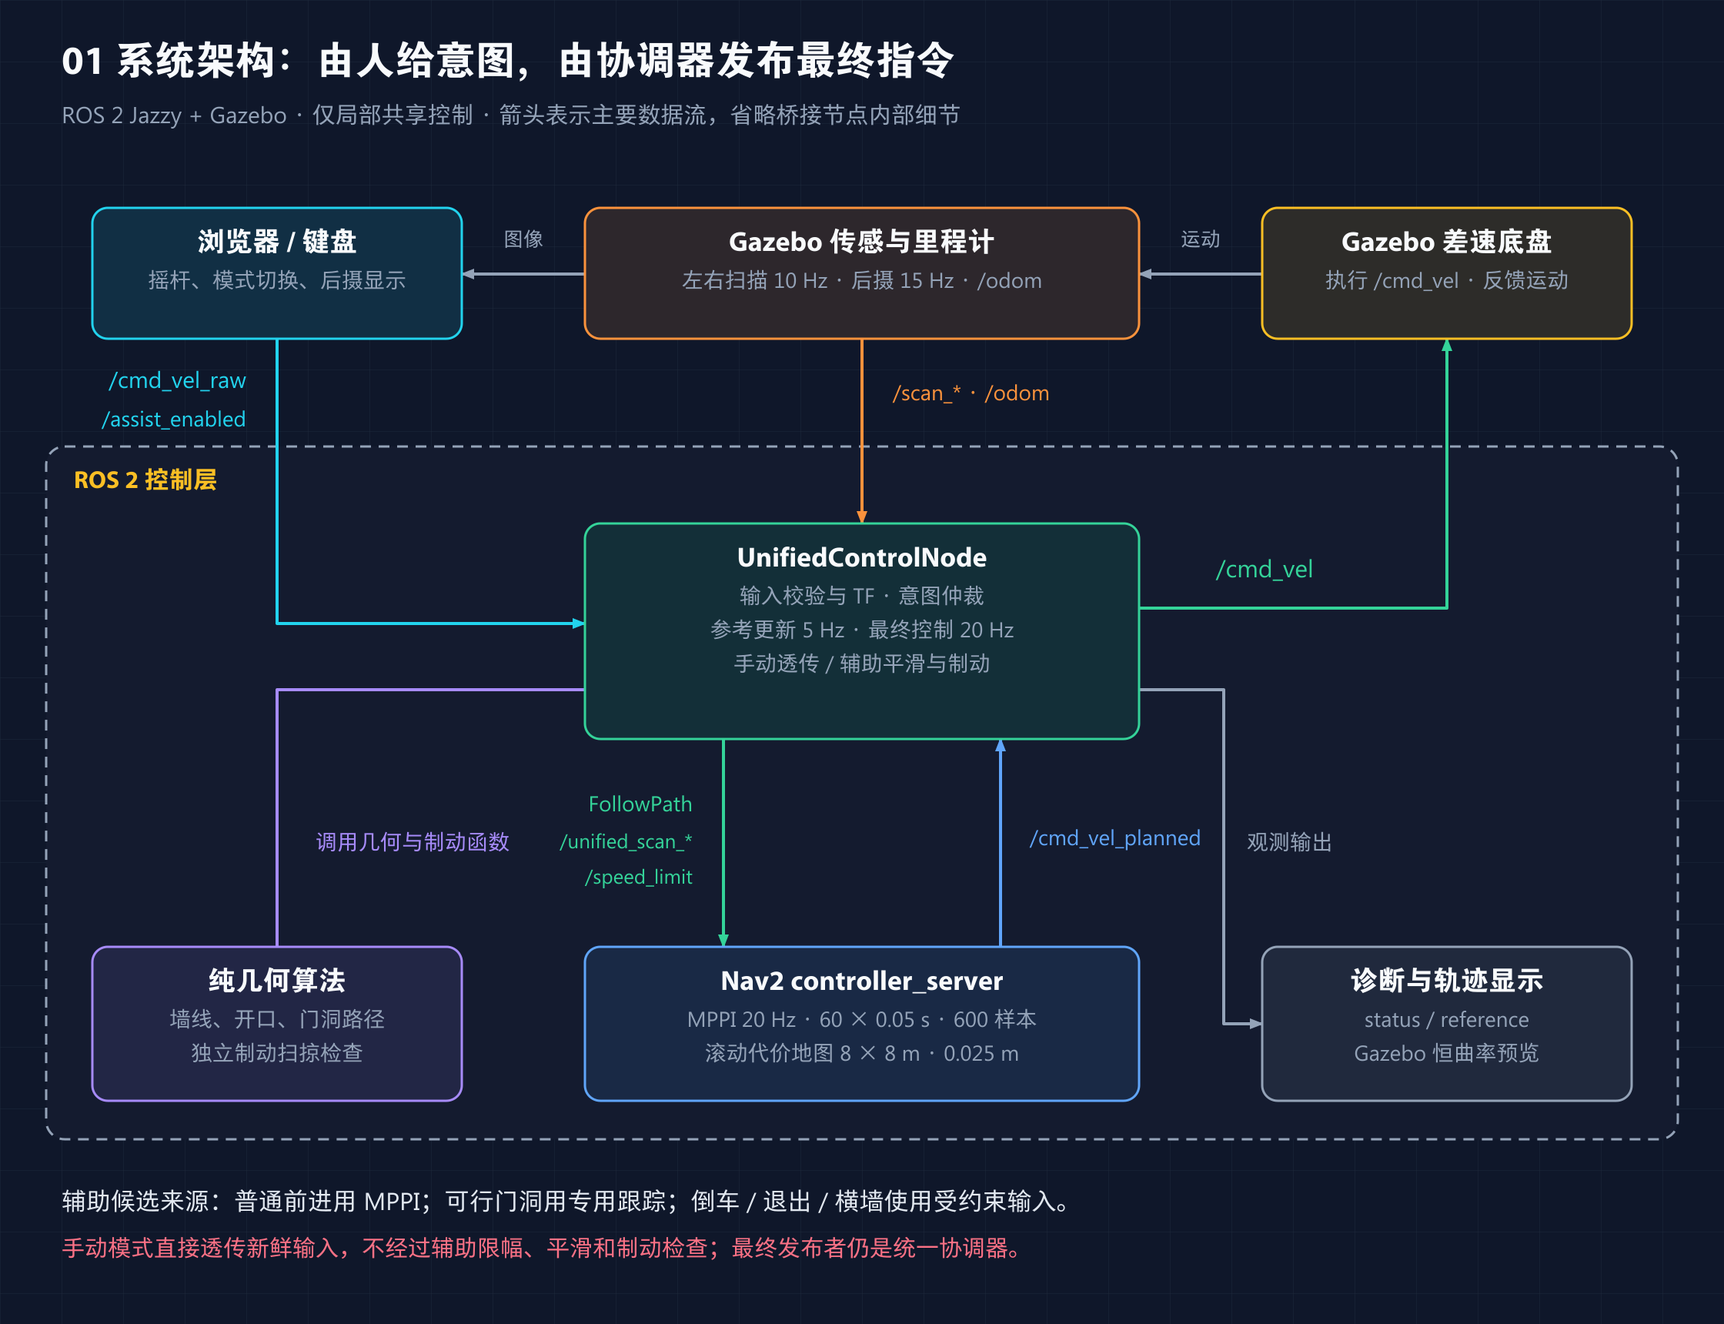
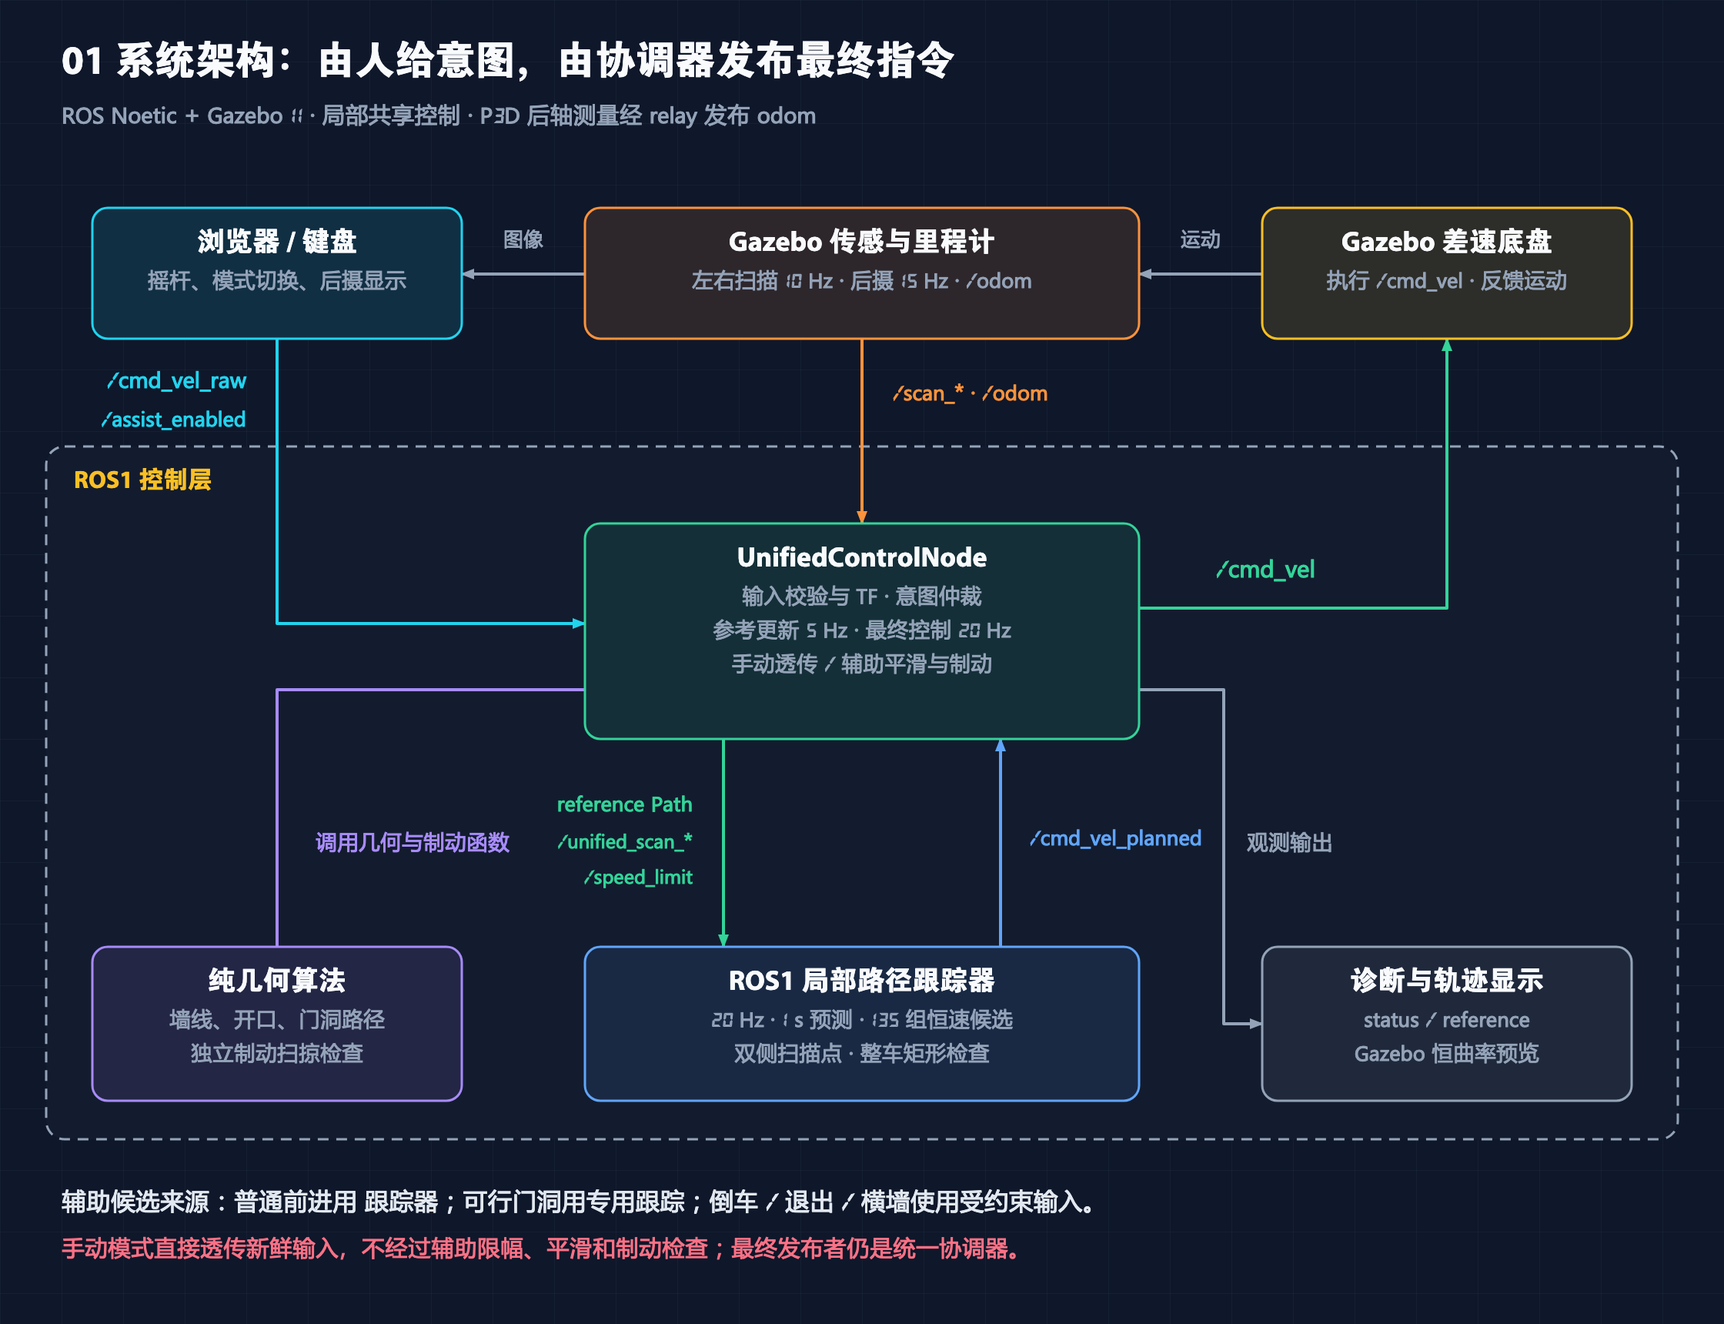
docs: document ROS1 simulation workflow

diff --git a/scripts/probe_unified_control.py b/scripts/probe_unified_control.py
@@ -70,7 +70,8 @@ def main():
     rospy.Subscriber('shared_control/status', String, on_status, queue_size=10)
     rospy.Subscriber('odom', Odometry, lambda m: data.update(odom=[
         m.pose.pose.position.x, m.pose.pose.position.y,
-        2*math.atan2(m.pose.pose.orientation.z, m.pose.pose.orientation.w)]), queue_size=10)
+        2*math.atan2(m.pose.pose.orientation.z, m.pose.pose.orientation.w)],
+        odom_velocity=[m.twist.twist.linear.x, m.twist.twist.angular.z]), queue_size=10)
     for side in ['left', 'right']:
         rospy.Subscriber('scan_'+side, LaserScan, lambda m, s=side: scans.update({s: m}), queue_size=5)
 
@@ -174,12 +175,26 @@ def main():
                 row['world_yaw'] = data['odom'][2]-initial_odom[2]+yaw
             records.append(row)
         command()
+        # Observe physical settling after release, not just the sent zero request.
+        time.sleep(.2)
+        stop_deadline = time.monotonic() + 3.
+        while time.monotonic() < stop_deadline:
+            if all(abs(value) < .02 for key in ('cmd_vel', 'odom_velocity')
+                   for value in data.get(key, [99.])):
+                break
+            time.sleep(.05)
         moving = moving_records(records)
+        sequence = []
+        for entry in mode_history:
+            if not sequence or sequence[-1] != entry['mode']:
+                sequence.append(entry['mode'])
         result = {'case': args.case, 'samples': len(moving),
                   'min_sampled_clearance': min((r['clearance'] for r in moving), default=0.),
                   'max_speed': max((r.get('cmd_vel', [0])[0] for r in moving), default=0.),
                   'modes': sorted({r['mode'] for r in mode_history}
                                   | {r.get('status', {}).get('mode', 'missing') for r in moving}),
+                  'mode_sequence': sequence,
+                  'final_stop': {key: data.get(key) for key in ('cmd_vel', 'odom_velocity')},
                   'last': records[-1] if records else None}
         if args.case == 'wall_gap':
             gaps = [r['wall_clearance'] for r in moving if r['wall_clearance'] is not None
@@ -193,11 +208,20 @@ def main():
                                                'mode_history': mode_history}, indent=2)+'\n')
         print(json.dumps(result, indent=2))
         assert moving and result['min_sampled_clearance'] > .02, 'missing data or insufficient sampled clearance'
+        assert all(abs(value) < .02 for key in ('cmd_vel', 'odom_velocity')
+                   for value in data.get(key, [99.])), 'release did not stop command and physical motion'
+        assert result['max_speed'] <= .800001, 'assisted speed limit exceeded'
         if args.case == 'door':
             check_door_modes(result['modes'])
+            assert 'door_clear' in sequence, 'door tail-clear phase was not observed'
+            assert sequence.index('door_align') < sequence.index('door_pass') < sequence.index('door_clear'), \
+                'door phases were observed out of order'
             assert any(r['world_axle'][0] > .6 for r in moving), 'rear axle did not clear doorway'
         elif args.case == 'front':
+            assert 'front_stop' in result['modes'], 'front obstacle stop mode was not observed'
             assert abs(moving[-1].get('cmd_vel', [99])[0]) < .02, 'did not stop at front wall'
+        elif args.case == 'wall':
+            assert 'wall' in result['modes'], 'wall following was not observed'
         elif args.case == 'override':
             assert any(r['t'] > 13 and r.get('cmd_vel', [0, 0])[1] < -.3
                        and r.get('status', {}).get('mode') == 'override' for r in moving), 'override not observed'

diff --git a/catkin_ws/src/smart_wheelchair_gazebo/test/test_ros1_layout.py b/catkin_ws/src/smart_wheelchair_gazebo/test/test_ros1_layout.py
@@ -5,6 +5,15 @@ ROOT = pathlib.Path(__file__).parents[4]
 
 
 class Ros1LayoutTest(unittest.TestCase):
+    def test_operational_docs_have_no_ros2_instructions(self):
+        docs = (ROOT / "README.md").read_text() + (
+            ROOT / "docs/architecture-and-algorithms.md").read_text()
+        for forbidden in ("ros2 ", "ROS 2", "Jazzy", "Nav2", "colcon",
+                          "ros_gz", "ros2_ws"):
+            self.assertNotIn(forbidden, docs)
+        for required in ("ROS Noetic", "Gazebo 11", "catkin_make"):
+            self.assertIn(required, docs)
+
     def test_workspace_and_packages_use_catkin_only(self):
         self.assertTrue((ROOT / "catkin_ws/src").is_dir())
         self.assertFalse((ROOT / "ros2_ws").exists())
@@ -15,3 +24,7 @@ class Ros1LayoutTest(unittest.TestCase):
             self.assertIn("catkin_package(", (directory / "CMakeLists.txt").read_text())
             self.assertIn("<buildtool_depend>catkin</buildtool_depend>",
                           (directory / "package.xml").read_text())
+
+
+if __name__ == "__main__":
+    unittest.main()

diff --git a/catkin_ws/src/smart_wheelchair_safety/smart_wheelchair_safety/unified_geometry.py b/catkin_ws/src/smart_wheelchair_safety/smart_wheelchair_safety/unified_geometry.py
@@ -304,7 +304,7 @@ def intended_side_opening(openings, wall_side, v, w):
 
 
 def approach_path(target, heading, length=3., steps=41):
-    """A tangent-continuous reference; MPPI and the guard check feasibility."""
+    """A tangent-continuous reference; the local follower and the guard check feasibility."""
     end = np.asarray(target, dtype=float)
     t = np.linspace(0., 1., steps)[:, None]
     scale = min(length, float(np.linalg.norm(end)))
@@ -344,7 +344,7 @@ def door_alignment_reference(door, phase):
 def collision_aware_door_reference(door, obstacles, margin=.045):
     """Find a forward-only reference to the door centerline.
 
-    This deterministic lattice only supplies MPPI with a collision-free
+    This deterministic lattice only supplies the local follower with a collision-free
     geometric reference. The controller and braking guard remain responsible
     for dynamics and final command safety.
     """

diff --git a/README.md b/README.md
@@ -1,12 +1,12 @@
 # SmartWheelChair ROS 仿真
 
-这是一个基于 Docker 的 ROS 2 Jazzy + Gazebo 智能轮椅仿真环境，模型参考 M6 类智能轮椅结构。
+这是一个基于 Docker 的 ROS Noetic + Gazebo 11（Classic）智能轮椅仿真环境，模型参考 M6 类智能轮椅结构。
 
 ## 仿真内容
 
 - 后轮差速驱动，两侧后轮独立动力输出。
 - 两个被动前万向轮。
-- 左右两颗 360 度旋转单线激光雷达，在仿真中发布经过车身过滤后的侧边/侧前 2D 扫描。
+- 左右两颗 360 度旋转单线激光雷达，仿真输出有效侧边/侧前 2D 扫描，控制器再剔除车身回波。
 - 后方中部 120 度广角摄像头。
 - 统一共享控制器，根据激光数据进行延墙、窄门辅助、舒适限速和独立制动检查。
 - 浏览器虚拟摇杆和后摄画面，倒车时叠加 2 米左右轮预测轨迹。
@@ -19,7 +19,7 @@
 
 ## 构建 Docker 镜像
 
-Dockerfile 默认使用 DaoCloud 的 Docker Hub 公共镜像作为 ARM64 ROS 基础镜像源，并使用清华源安装 Ubuntu/ROS apt 软件包。`docker-compose.yml` 针对 Apple Silicon Mac 固定为 `linux/arm64`；如果在模拟环境中跑 amd64 ROS desktop 镜像，Gazebo GUI 可能无法正确映射窗口，导致 VNC 桌面黑屏。
+Dockerfile 默认使用 DaoCloud 的 ARM64 `noetic-ros-base-focal` 镜像，Ubuntu Focal 软件包使用清华源，ROS 使用基础镜像自带的软件源。`docker-compose.yml` 针对 Apple Silicon Mac 固定为 `linux/arm64`；GUI 使用 Xvfb 与软件 OpenGL。
 
 如果使用 macOS Docker Desktop，可以在 `Settings -> Docker Engine` 中加入下面配置，然后重启 Docker：
 
@@ -40,7 +40,7 @@ docker compose build
 如果想绕过镜像源：
 
 ```bash
-docker compose build --build-arg BASE_IMAGE=ros:jazzy-ros-base
+docker compose build --build-arg BASE_IMAGE=ros:noetic-ros-base-focal
 ```
 
 ## 打开 ROS Shell
@@ -52,9 +52,9 @@ docker compose run --rm sim
 进入容器后执行：
 
 ```bash
-cd /workspaces/SmartWheelChair/ros2_ws
-colcon build --symlink-install
-source install/setup.bash
+cd /workspaces/SmartWheelChair/catkin_ws
+catkin_make
+source devel/setup.bash
 ```
 
 ## 启动仿真
@@ -62,15 +62,15 @@ source install/setup.bash
 在 Docker shell 内启动无界面 Gazebo：
 
 ```bash
-ros2 launch smart_wheelchair_gazebo sim.launch.py
+LIBGL_ALWAYS_SOFTWARE=1 xvfb-run -a roslaunch smart_wheelchair_gazebo sim.launch
 ```
 
-launch 文件默认以 headless server 模式启动 Gazebo，这种方式在 Docker 内不需要显示转发。
+launch 默认只启动 Gazebo server；Xvfb 为相机提供虚拟显示器，不需要转发主机显示。
 
 在 macOS 上显示 Gazebo 窗口，推荐使用浏览器 VNC 方案：
 
 ```bash
-cd /Users/guotao/Work/code/SmartWheelChair
+# 在仓库根目录运行
 docker compose up -d gui
 ```
 
@@ -85,7 +85,7 @@ http://localhost:6080/vnc.html
 `docker compose up gui` 会通过 `docker/gazebo-gui-vnc.sh` 启动：
 
 ```bash
-ros2 launch smart_wheelchair_gazebo sim.launch.py gui:=true
+roslaunch smart_wheelchair_gazebo sim.launch gui:=true
 ```
 
 `docker compose run --rm sim` 只会打开 ROS shell，不会自动启动 Gazebo。
@@ -125,7 +125,7 @@ http://localhost:8090
 - 后退最大速度：`3 kph`，即 `0.8333333 m/s`
 - 最大角速度：`1.4 rad/s`
 
-新的统一控制版本默认前进上限为 `0.8 m/s`、倒车上限为 `0.4 m/s`、角速度上限为 `0.65 rad/s`；门洞辅助规划限速为 `0.45 m/s`。正常加减速进行平滑处理，松杆、数据失效和紧急制动优先于舒适性限制。
+辅助模式默认前进上限为 `0.8 m/s`、倒车上限为 `0.4 m/s`、角速度上限为 `0.65 rad/s`；门洞对正限速 `0.35 m/s`，通过及车尾清空限速 `0.55 m/s`。正常加减速进行平滑处理，松杆、数据失效和紧急制动优先于舒适性限制。页面切换到手动模式后，新鲜输入直接透传，绕过辅助限速与制动检查；切换模式需要先回中。
 
 后方 120 度广角摄像头画面显示在同一个浏览器控制页中。倒车时，画面会根据差速轮运动学叠加 2 米范围内的左右轮预测轨迹。
 
@@ -159,7 +159,7 @@ omega_l = v_l / r
 omega_r = v_r / r
 ```
 
-在平面位姿 `(x, y, theta)` 下，车体中心的运动方程为：
+在平面位姿 `(x, y, theta)` 下，后轴中心的运动方程为：
 
 ```text
 dx/dt     = v * cos(theta)
@@ -175,7 +175,7 @@ x_s     = sin(theta_s) / k
 y_s     = (1 - cos(theta_s)) / k
 ```
 
-其中 `s` 是沿车体前后方向的预测距离，倒车时 `s < 0`。左右轮轨迹是在车体中心轨迹基础上叠加横向偏移 `+/- L/2`。
+其中 `s` 是沿车体前后方向的预测距离，倒车时 `s < 0`。左右轮轨迹是在后轴中心轨迹基础上叠加横向偏移 `+/- L/2`。`/odom` 来自 Gazebo P3D 对后轴 link 的测量，经 relay 将与 `world` 重合的父坐标系标记为 `odom`；差速插件发布的模型原点 `/diff_drive/odom` 仅供诊断。
 
 ## 激光雷达和安全过滤
 
@@ -184,15 +184,15 @@ y_s     = (1 - cos(theta_s)) / k
 两颗激光雷达在物理结构上按 360 度旋转单线雷达建模，但仿真发布的是轮椅实际使用的有效视场：每侧约 200 度，角分辨率 0.5 度，覆盖侧边和侧前区域。Gazebo 中能看到绿色扫描射线；ROS 输出是 `LaserScan` 话题，不是 3D 点云：
 
 ```bash
-ros2 topic echo /scan_left
-ros2 topic echo /scan_right
+rostopic echo /scan_left
+rostopic echo /scan_right
 ```
 
 统一控制器把雷达测距转换为车身坐标系障碍点，并以整车矩形轮廓、制动距离和额外安全裕量进行碰撞检查。距离小于车身过滤边界的自身回波会在进入控制逻辑前剔除。
 
 ## 统一共享控制 V1
 
-控制链路为：摇杆意图 → 墙线/门洞参考路径 → Nav2 MPPI → 速度平滑 → 独立制动检查 → `/cmd_vel`。MPPI 联合选择线速度和角速度，预测时域为 3 秒；碰撞检查使用整车矩形轮廓，不只检查三条轮迹线。
+控制链路为：摇杆意图 → 墙线/门洞参考路径 → ROS1 局部路径跟踪器 → 速度平滑 → 独立制动检查 → `/cmd_vel`。跟踪器每周期枚举 `9 × 15` 组恒定线速度/角速度，预测 `1 s`，步长 `0.1 s`，以整车矩形净空和路径评分选择候选。门洞使用专用路径跟踪与安全速度搜索；最终协调器仍检查实测动量、反应延迟和制动尾段。
 
 - 斜向靠墙与平行沿墙共用切向参考，稳定沿墙的车身边沿目标净距为 `12 cm`（`wall_clearance=0.12`），按 `15 cm` 内进行跟随验证，不是后轴中心到墙的距离。接近墙、门洞和转角阶段允许留出更多安全空间；反向转向输入可以退出沿墙接管。
 - 沿墙遇到宽度不小于 `1.8 m` 的同侧通道时，只有用户持续向开口侧转向才会锁存开口；控制器先保持原航向越过近端墙角，再生成进入通道的切向路径。摇杆保持直行不会被开口吸入。窄于该阈值的开口不走直接转弯逻辑。
@@ -202,54 +202,77 @@ ros2 topic echo /scan_right
 - Gazebo 两颗激光雷达当前量程均为 `5.0 m`；硬件雷达标称最远 `12 m`，待实车标定后再单独调整，不能直接套用仿真参数。
 - 几何统一到后轴中心：车身 `x=[-0.25, 0.97] m`、`y=[-0.40, 0.40] m`。硬检查附加 `4 cm` 裕量与受减速度约束的制动尾段；这不是实车安全保证。
 
-Gazebo C++ 插件用两套三线轨迹分别显示原始摇杆指令和最终 `/cmd_vel` 的恒曲率预测；它们不是 MPPI 的时变规划路径。参考路径与控制状态可查看：
+Gazebo C++ 插件用两套三线轨迹分别显示原始摇杆指令和最终 `/cmd_vel` 的恒曲率预测（`3 s`）；它们不代表已经通过净空验证的路径。参考路径与控制状态可查看：
 
 ```bash
-ros2 topic echo /shared_control/status
-ros2 topic echo /shared_control/reference
-ros2 topic echo /cmd_vel_planned
+rostopic echo /shared_control/status
+rostopic echo /shared_control/reference
+rostopic echo /cmd_vel_planned
 ```
 
 独立一米门洞测试场景（启动位置偏角约 10 度、横向偏置 15 cm）：
 
 ```bash
-WHEELCHAIR_WORLD=/workspaces/SmartWheelChair/ros2_ws/src/smart_wheelchair_gazebo/worlds/unified_door.sdf docker compose up -d gui
+WHEELCHAIR_WORLD=/workspaces/SmartWheelChair/catkin_ws/src/smart_wheelchair_gazebo/worlds/unified_door.world docker compose up -d gui
 ```
 
 恢复原场景：`docker compose up -d gui`。门洞辅助目前仅针对静态、平面、可观测的室内场景，不包含动态行人预测、台阶/悬空检测和自动倒车脱困。实车还需要验证遮挡、打滑、定位误差、执行延迟与真实制动能力。实现说明与复测方法见 [当前方案架构与算法详解](docs/architecture-and-algorithms.md)。
 
 ## 键盘遥控
 
-在另一个 Docker shell 中，可以通过键盘遥控并经过统一控制器：
+GUI 运行时，在主机另一终端进入同一个容器进行键盘遥控，指令经过统一控制器：
 
 ```bash
-cd /workspaces/SmartWheelChair/ros2_ws
-source install/setup.bash
-ros2 run teleop_twist_keyboard teleop_twist_keyboard --ros-args -r cmd_vel:=cmd_vel_raw
+docker compose exec gui bash -lc 'source /opt/ros/noetic/setup.bash && source catkin_ws/devel/setup.bash && rosrun teleop_twist_keyboard teleop_twist_keyboard.py cmd_vel:=cmd_vel_raw'
 ```
 
 常用话题：
 
 ```bash
-ros2 topic list
-ros2 topic echo /scan_left
-ros2 topic echo /scan_right
-ros2 topic echo /odom
+rostopic list
+rostopic echo /scan_left
+rostopic echo /scan_right
+rostopic echo /odom
 ```
 
-## 运行本地单元测试
+## 测试与闭环复测
 
-这些测试覆盖摇杆映射、统一控制几何、控制状态机、轮椅模型和 Gazebo 世界布局。纯 Python 测试不需要 ROS：
+主机需 Python 与 NumPy；无 ROS 时节点测试会跳过，完整测试应在容器执行：
 
 ```bash
-PYTHONPATH=ros2_ws/src/smart_wheelchair_safety python3 -m unittest discover ros2_ws/src/smart_wheelchair_safety/test
+PYTHONPATH=catkin_ws/src/smart_wheelchair_safety python3 -m unittest discover -s catkin_ws/src/smart_wheelchair_safety/test -v
+PYTHONPATH=catkin_ws/src/smart_wheelchair_safety python3 -m unittest discover -s catkin_ws/src/smart_wheelchair_gazebo/test -v
+docker compose stop gui
+docker compose build sim
+docker compose run --rm sim bash -lc 'cd catkin_ws && catkin_make && source devel/setup.bash && catkin_make run_tests && catkin_test_results --verbose'
 ```
 
-也可以只运行不依赖 ROS 的基础测试：
+启动独立无界面运行实例：
 
 ```bash
-PYTHONPATH=ros2_ws/src/smart_wheelchair_safety python3 -m unittest ros2_ws/src/smart_wheelchair_safety/test/test_joystick.py ros2_ws/src/smart_wheelchair_safety/test/test_unified_geometry.py ros2_ws/src/smart_wheelchair_gazebo/test/test_model_visuals.py ros2_ws/src/smart_wheelchair_gazebo/test/test_world_layout.py
+docker compose run -d --name smart-wheelchair-verify sim bash -lc 'source catkin_ws/devel/setup.bash && LIBGL_ALWAYS_SOFTWARE=1 xvfb-run -a roslaunch smart_wheelchair_gazebo sim.launch gui:=false; exit $?'
+docker exec smart-wheelchair-verify bash -lc 'source /opt/ros/noetic/setup.bash; source catkin_ws/devel/setup.bash; rostopic list'
+docker exec smart-wheelchair-verify bash -lc 'source /opt/ros/noetic/setup.bash; source catkin_ws/devel/setup.bash; python3 scripts/probe_unified_control.py front --output /tmp/front.json'
+docker exec smart-wheelchair-verify pkill -INT -x roslaunch
+docker stop --time 60 smart-wheelchair-verify
+docker rm smart-wheelchair-verify
 ```
+
+等到 `/clock`、`/odom`、双侧扫描和 HTTP `8090` 就绪后再执行探针。将 `front` 换为 `wall` 可验证沿墙；每个用例都重新启动实例。门洞用例需在 roslaunch 命令中加 `world:=/workspaces/SmartWheelChair/catkin_ws/src/smart_wheelchair_gazebo/worlds/unified_door.world`，再执行 `probe_unified_control.py door`。每例默认运动 30 秒，结束后验证指令与实测速度都停止；报告含净距、速度和模式顺序。探针会实际移动车辆，仅用于仿真，运行时关闭其他摇杆页面。
+
+原生渲染检查需要独立 ROS master 和 Xvfb，检查固定轨迹槽位、显隐循环、激光稳定性及摄像头帧：
+
+```bash
+docker compose run --rm sim roscore
+```
+
+上面的 shell 保持运行，在另一个终端执行：
+
+```bash
+docker compose run --rm sim bash -lc 'source /usr/share/gazebo/setup.sh && source catkin_ws/devel/setup.bash && LIBGL_ALWAYS_SOFTWARE=1 xvfb-run -a python3 catkin_ws/src/smart_wheelchair_gazebo/test/check_trajectory_preview.py; exit $?'
+```
+
+结束后用 Ctrl-C 停止独立 master，再执行 `docker compose down`。`xvfb-run` 后保留 `exit $?`，避免它成为容器 PID 1 后无法收到 Xvfb 的就绪信号。不要同时运行 GUI、headless 场景或另一个使用相同 ROS/Gazebo 端口的实例。构建产生的 `catkin_ws/build`、`devel`、`.catkin_workspace` 与顶层 catkin CMake 链接均不应提交。
 
 ## 拆机信息对应关系
 
@@ -259,4 +282,4 @@ PYTHONPATH=ros2_ws/src/smart_wheelchair_safety python3 -m unittest ros2_ws/src/s
 - 后轮独立驱动，组成差速底盘。
 - 两颗 360 度旋转单线激光雷达提供经过车身过滤的侧边/侧前局部障碍输入。
 - 后摄像头建模为 120 度广角视频传感器。
-- 仿真的共享控制行为是本地障碍限速，不是目标点导航。
+- 仿真实现沿墙、门洞和制动辅助等局部共享控制，不执行目标点导航。
